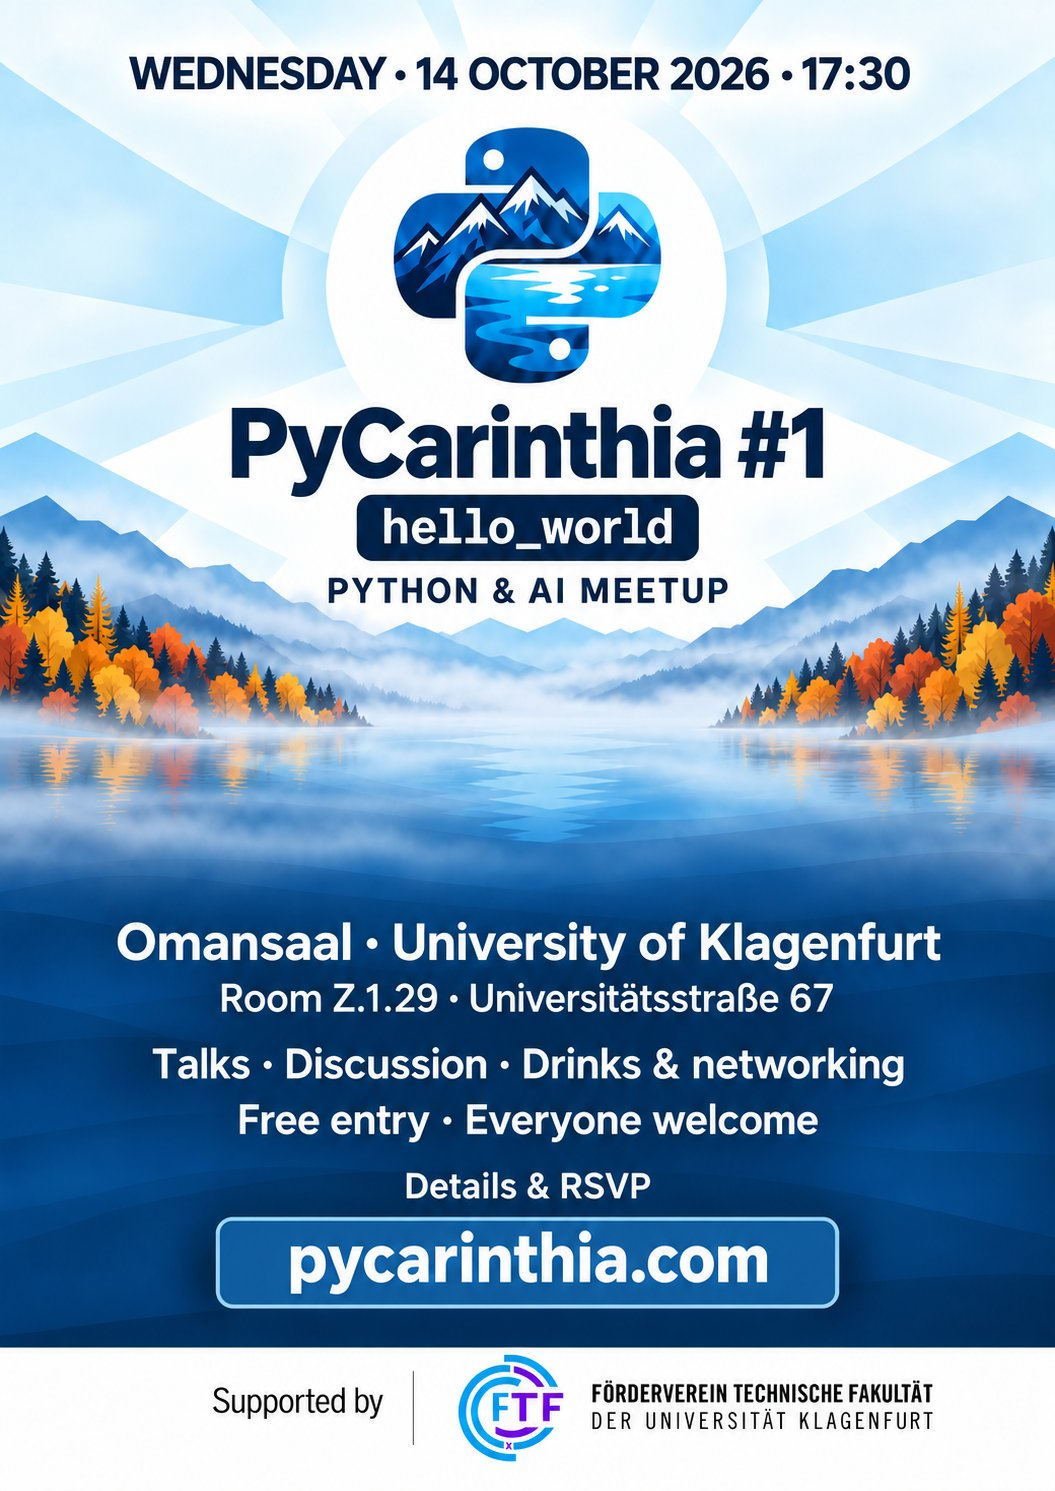
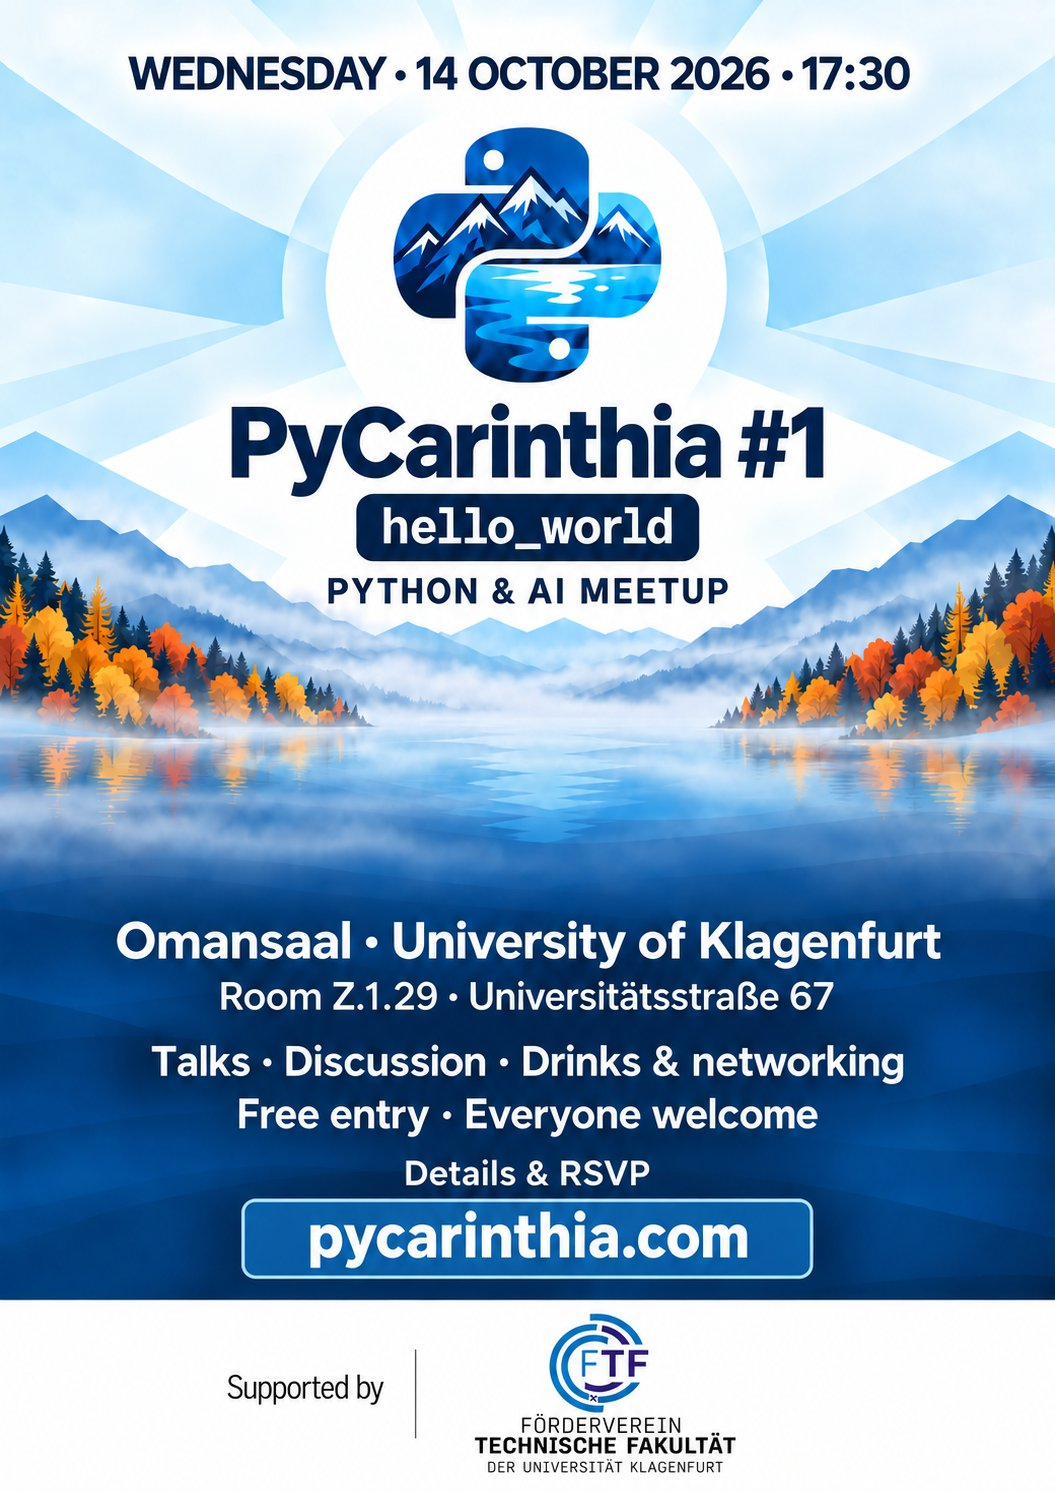
Update posters and talk details

diff --git a/theme/pycarinthia/templates/article.html b/theme/pycarinthia/templates/article.html
@@ -50,10 +50,10 @@
         </article>
         {% if article.poster %}
           <aside class="event-poster">
-            <a href="{{ SITEURL }}/{{ article.poster }}" target="_blank" rel="noopener">
+            <a class="lightbox" href="{{ SITEURL }}/{{ article.poster }}">
               <img src="{{ SITEURL }}/{{ article.poster }}" alt="Poster for {{ article.title }}" loading="lazy">
             </a>
-            <a class="event-poster-link" href="{{ SITEURL }}/{{ article.poster }}" target="_blank" rel="noopener">Open poster</a>
+            <a class="lightbox event-poster-link" href="{{ SITEURL }}/{{ article.poster }}">Enlarge poster</a>
           </aside>
         {% endif %}
       </div>
@@ -76,5 +76,52 @@
         </article>
       </div>
     </section>
+  {% endif %}
+{% endblock %}
+
+{% block scripts %}
+  {% if article.category|string == "events" %}
+    <dialog class="lightbox-dialog" aria-label="Enlarged image">
+      <button class="lightbox-close" type="button" aria-label="Close">&times;</button>
+      <img alt="">
+    </dialog>
+    <script>
+      (function () {
+        var dialog = document.querySelector(".lightbox-dialog");
+        if (!dialog || typeof dialog.showModal !== "function") {
+          return;
+        }
+        var image = dialog.querySelector("img");
+
+        document.querySelectorAll("a.lightbox").forEach(function (link) {
+          link.addEventListener("click", function (event) {
+            event.preventDefault();
+            var thumb = link.querySelector("img") || document.querySelector('a.lightbox[href="' + link.getAttribute("href") + '"] img');
+            image.src = link.href;
+            image.alt = thumb ? thumb.alt : "";
+            dialog.showModal();
+          });
+        });
+
+        dialog.addEventListener("click", function () {
+          dialog.close();
+        });
+      })();
+
+      (function () {
+        document.querySelectorAll(".speakers").forEach(function (list) {
+          var speakers = Array.prototype.slice.call(list.children);
+          for (var i = speakers.length - 1; i > 0; i--) {
+            var j = Math.floor(Math.random() * (i + 1));
+            var swap = speakers[i];
+            speakers[i] = speakers[j];
+            speakers[j] = swap;
+          }
+          speakers.forEach(function (speaker) {
+            list.appendChild(speaker);
+          });
+        });
+      })();
+    </script>
   {% endif %}
 {% endblock %}

diff --git a/theme/pycarinthia/static/css/main.css b/theme/pycarinthia/static/css/main.css
@@ -895,6 +895,7 @@ a.event-card:hover {
 
 .prose h2,
 .prose h3 {
+  clear: both;
   margin: 2rem 0 0.7rem;
   color: var(--ink);
   line-height: 1.2;
@@ -902,6 +903,68 @@ a.event-card:hover {
 
 .prose p {
   margin: 0 0 1.1rem;
+}
+
+.speaker {
+  display: flow-root;
+}
+
+.prose a.lightbox {
+  float: right;
+  width: min(220px, 40%);
+  margin: 0.3rem 0 1rem 1.5rem;
+}
+
+.speaker-card {
+  display: block;
+  width: 100%;
+  height: auto;
+  border: 1px solid var(--line);
+  border-radius: var(--radius);
+  box-shadow: var(--hover-shadow);
+}
+
+a.lightbox {
+  cursor: zoom-in;
+}
+
+.lightbox-dialog {
+  max-width: min(94vw, 1100px);
+  max-height: 94vh;
+  padding: 0;
+  border: 0;
+  background: transparent;
+  overflow: visible;
+  cursor: zoom-out;
+}
+
+.lightbox-dialog::backdrop {
+  background: rgba(10, 20, 30, 0.82);
+}
+
+.lightbox-dialog img {
+  display: block;
+  max-width: min(94vw, 1100px);
+  max-height: 94vh;
+  width: auto;
+  height: auto;
+  border-radius: var(--radius);
+}
+
+.lightbox-close {
+  position: absolute;
+  top: -14px;
+  right: -14px;
+  width: 36px;
+  height: 36px;
+  border: 0;
+  border-radius: 50%;
+  background: var(--surface);
+  color: var(--ink);
+  font-size: 1.4rem;
+  line-height: 1;
+  cursor: pointer;
+  box-shadow: var(--shadow);
 }
 
 .prose a {
@@ -1038,6 +1101,13 @@ a.event-card:hover {
   .actions,
   .event-actions {
     display: grid;
+  }
+
+  .prose a.lightbox {
+    float: none;
+    display: block;
+    width: min(320px, 100%);
+    margin: 0 auto 1.1rem;
   }
 
   .button {

diff --git a/theme/pycarinthia/templates/base.html b/theme/pycarinthia/templates/base.html
@@ -126,6 +126,7 @@
         <span>Built with Python and Pelican.</span>
       </div>
     </footer>
+    {% block scripts %}{% endblock %}
     <script>
       (function () {
         var root = document.documentElement;

diff --git a/content/events/kickoff-python-ai-carinthia.md b/content/events/kickoff-python-ai-carinthia.md
@@ -23,13 +23,29 @@ The evening opens with a short intro to what PyCarinthia is and what it can beco
 
 ## Speakers
 
+<div class="speakers" markdown="1">
+
+<div class="speaker" markdown="1">
+
 ### Christian Klimbacher: When AI Calls a Multimeter for Help, You Get More Than Expected
+
+[![Speaker card for Christian Klimbacher]({static}/assets/events/kickoff/speaker-christian-klimbacher.jpg){: .speaker-card }]({static}/assets/events/kickoff/speaker-christian-klimbacher.jpg){: .lightbox }
 
 Given nothing but a photo of an unknown circuit board, can we work out what is on it? This talk walks through a Python system that loops over imperfect sources: a vision LLM reads the board, datasheets supply expectations, and a simple multimeter measures in-circuit, where parallel paths make any single reading unclear. Each source only knows part of the answer, but together they find values that were unknown before. Live measurement on stage included.
 
-### Benjamin Hackl: Talk title TBD
+</div>
 
-Talk details will follow.
+<div class="speaker" markdown="1">
+
+### Benjamin Hackl: Musings from Maintaining Manim
+
+[![Speaker card for Benjamin Hackl]({static}/assets/events/kickoff/speaker-benjamin-hackl.jpg){: .speaker-card }]({static}/assets/events/kickoff/speaker-benjamin-hackl.jpg){: .lightbox }
+
+Manim is a Python library for creating mathematical animations, originally built by popular math communicator Grant “3Blue1Brown” Sanderson. After a quick interactive demo, I’ll talk about my path into open source and explain why my car mechanic is responsible both for me being rude to people on the internet and for me occasionally getting to press the “new Manim release” button. On a more serious note, I will share some thoughts about community building and dealing with AI slop in the age of the clankers.
+
+</div>
+
+</div>
 
 ## Good to know
 
